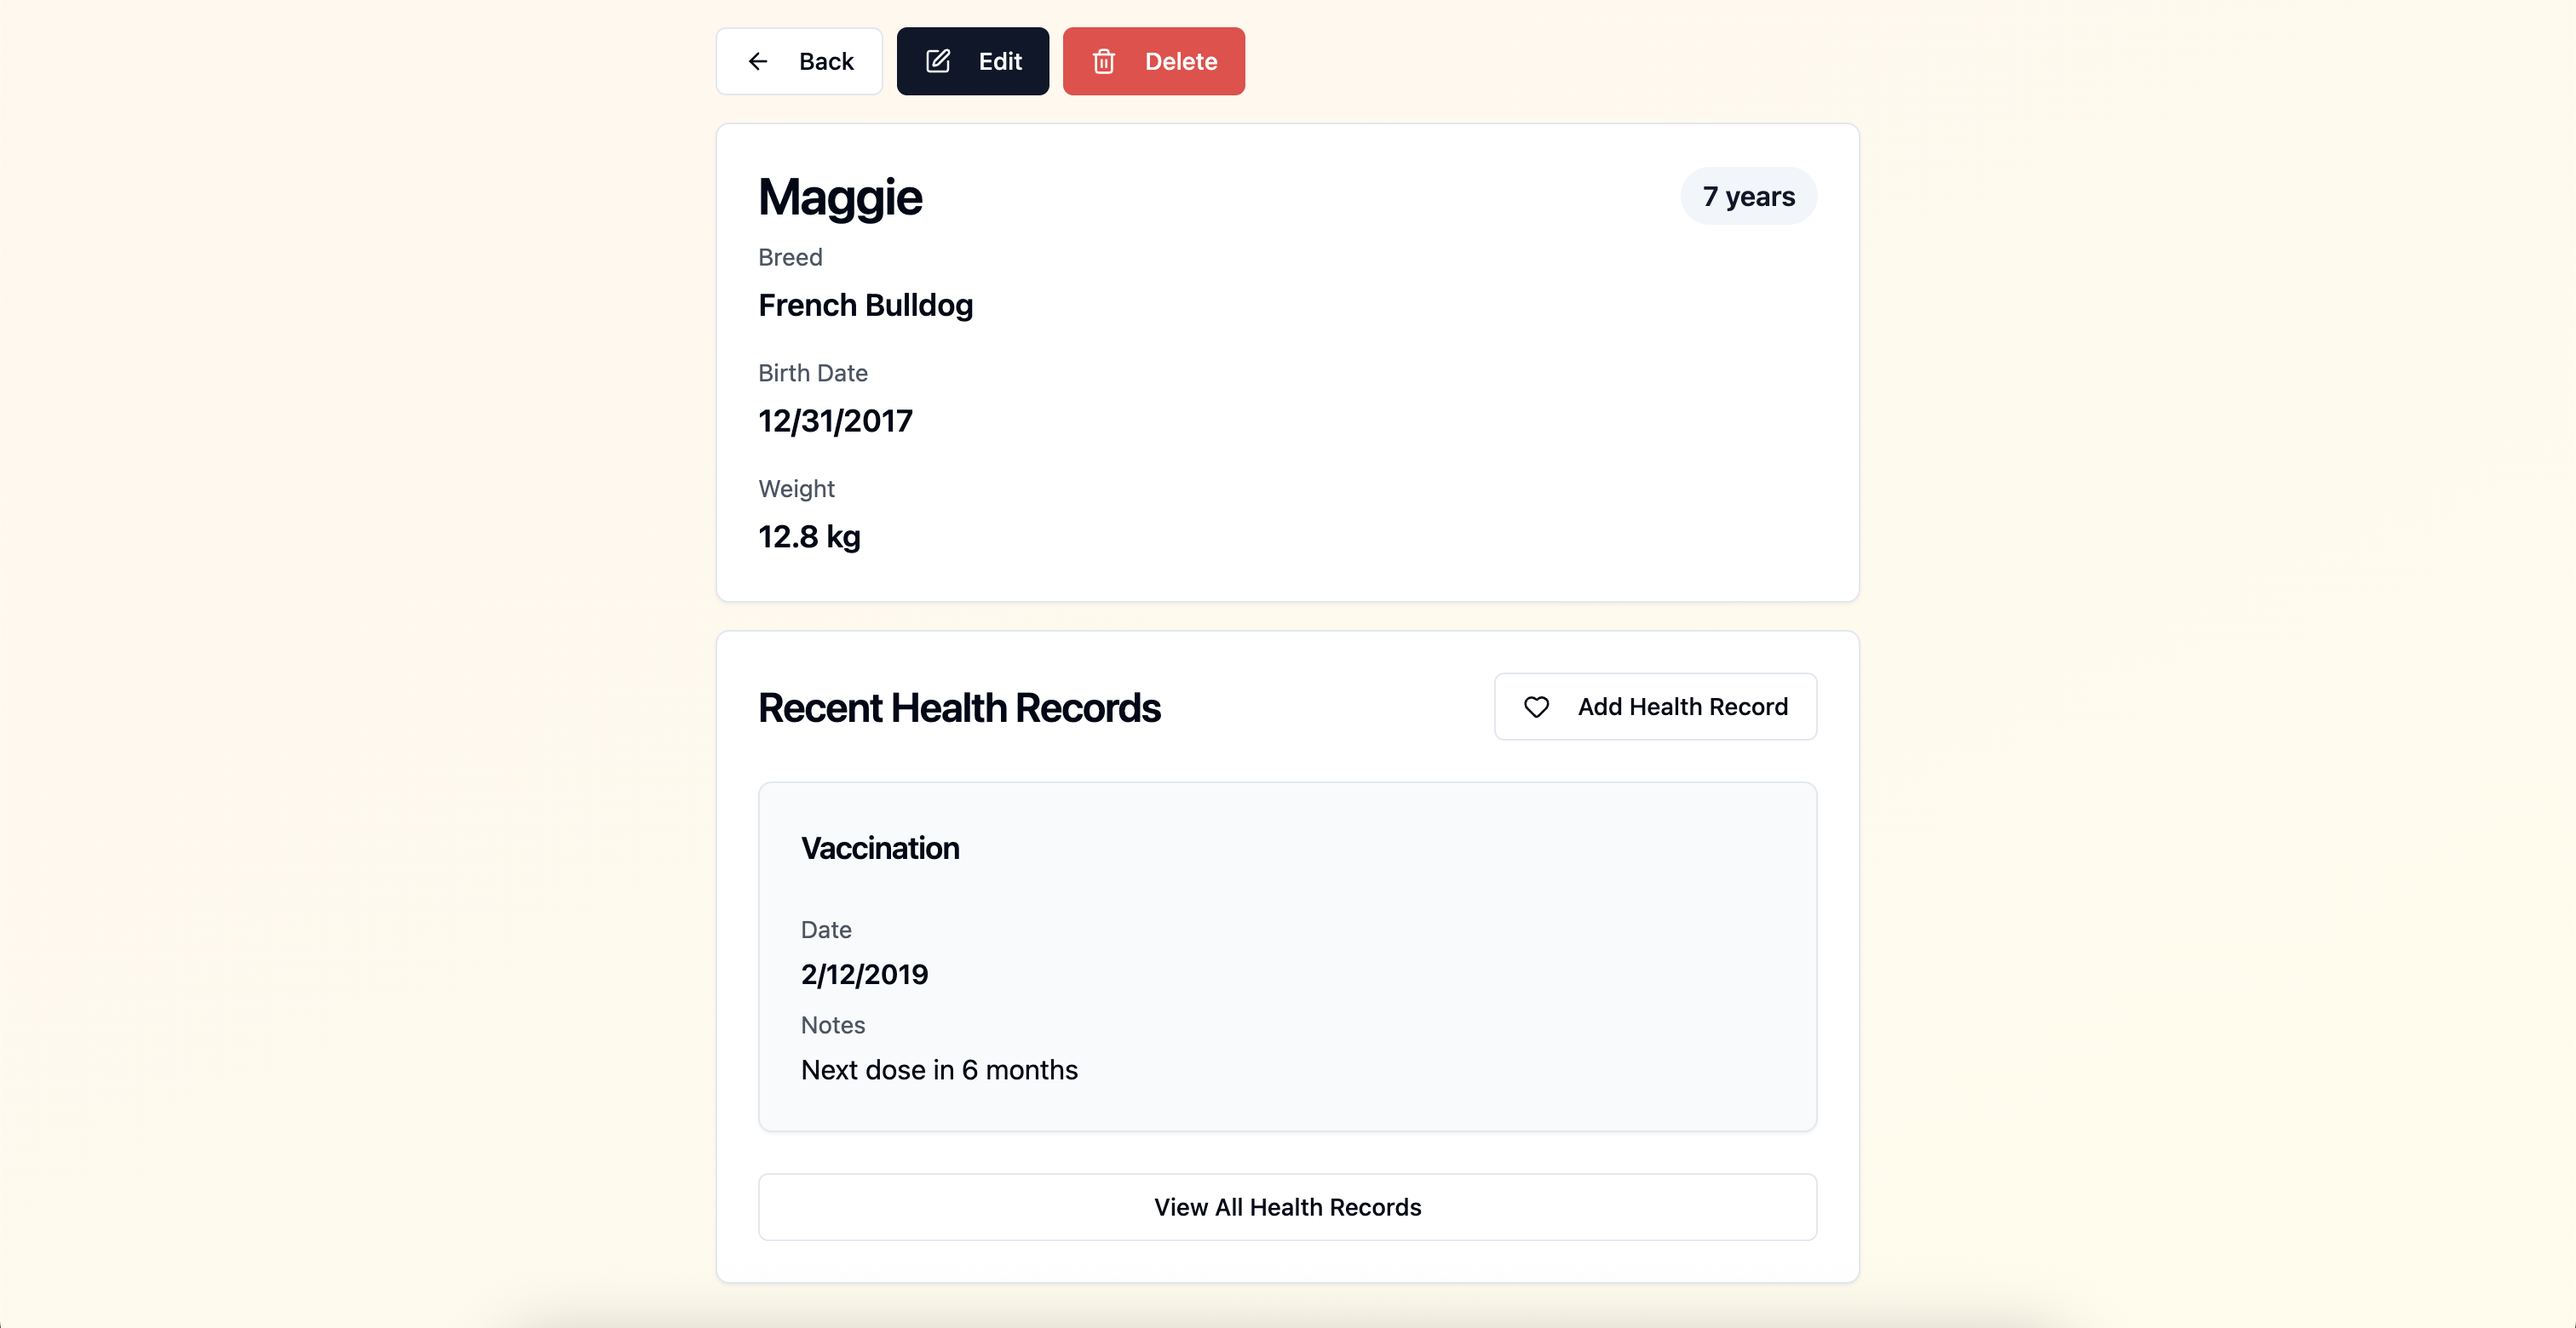
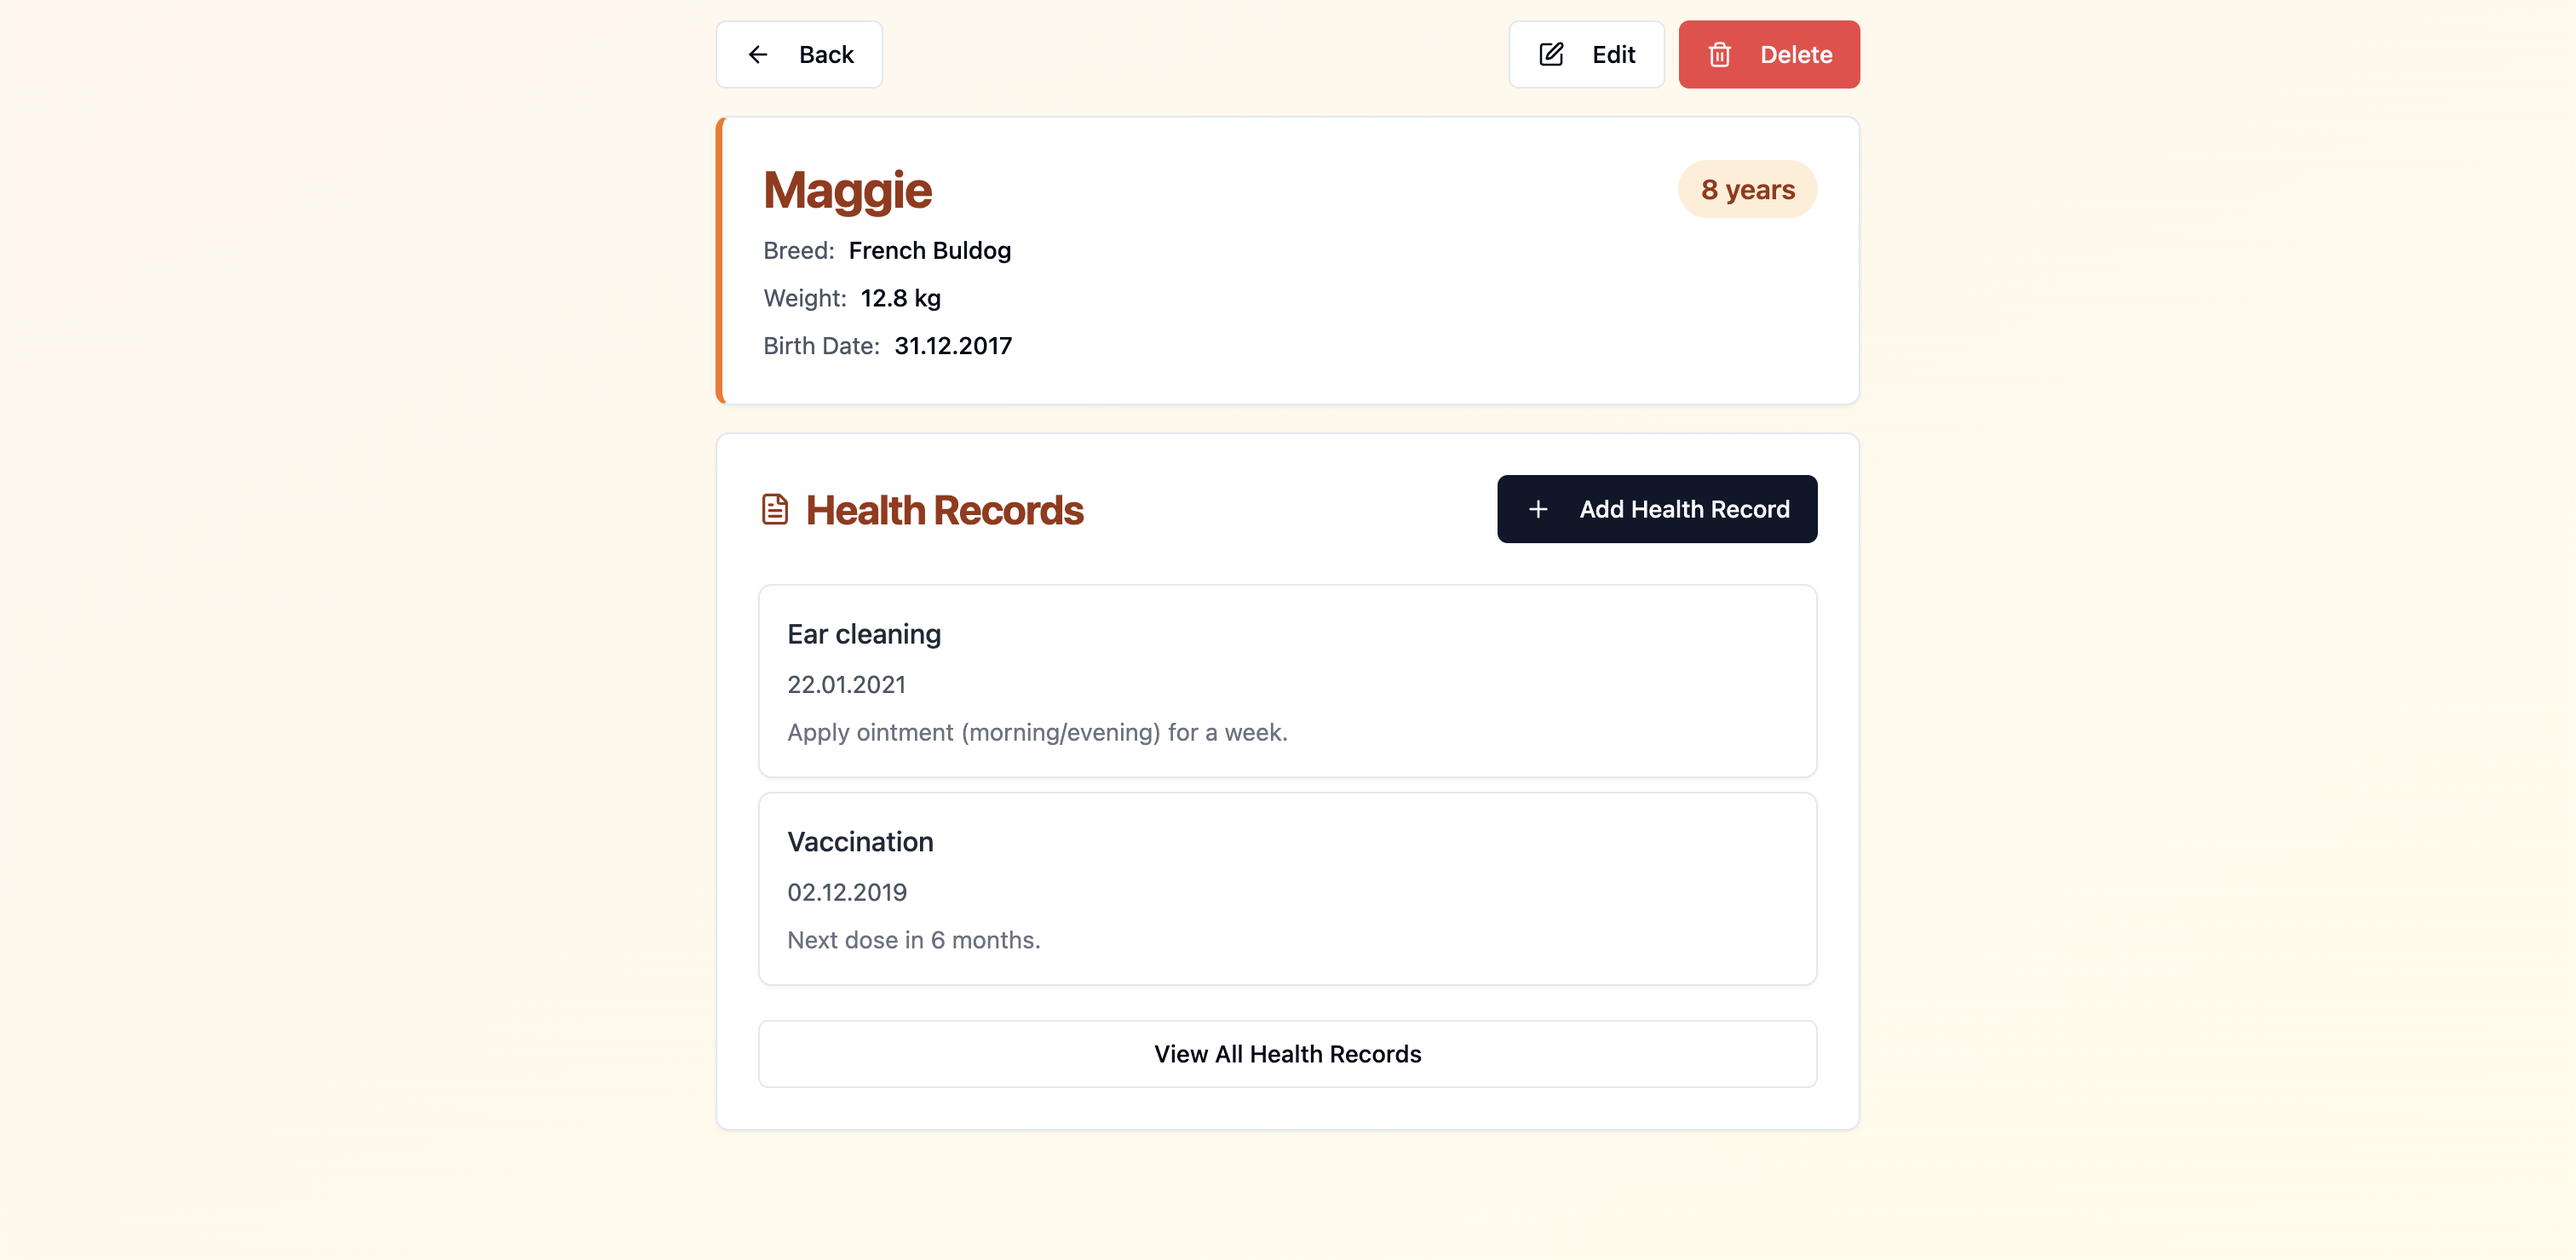
docs: update README images

diff --git a/README.md b/README.md
@@ -51,15 +51,15 @@
 Main screen with animals list and the primary “Add Animal” action.
 ![Animals List](./src/assets/AnimalsListScreen.png)
 
+### **Add Animals**
+
+Form to add a new animal with fields for name, breed, birth date, and weight.
+![Add Animal](./src/assets/AddAnimalScreen.png)
+
 ### **Animal Details**
 
 Details view with actions (edit / delete) and quick access to health records.
 ![Animal Details](./src/assets/AnimalDetailsScreen.png)
-
-### **Health Records**
-
-List of health records with search and actions (add / edit / delete).
-![Health Records](./src/assets/HealthRecordsScreen.png)
 
 ---
 
